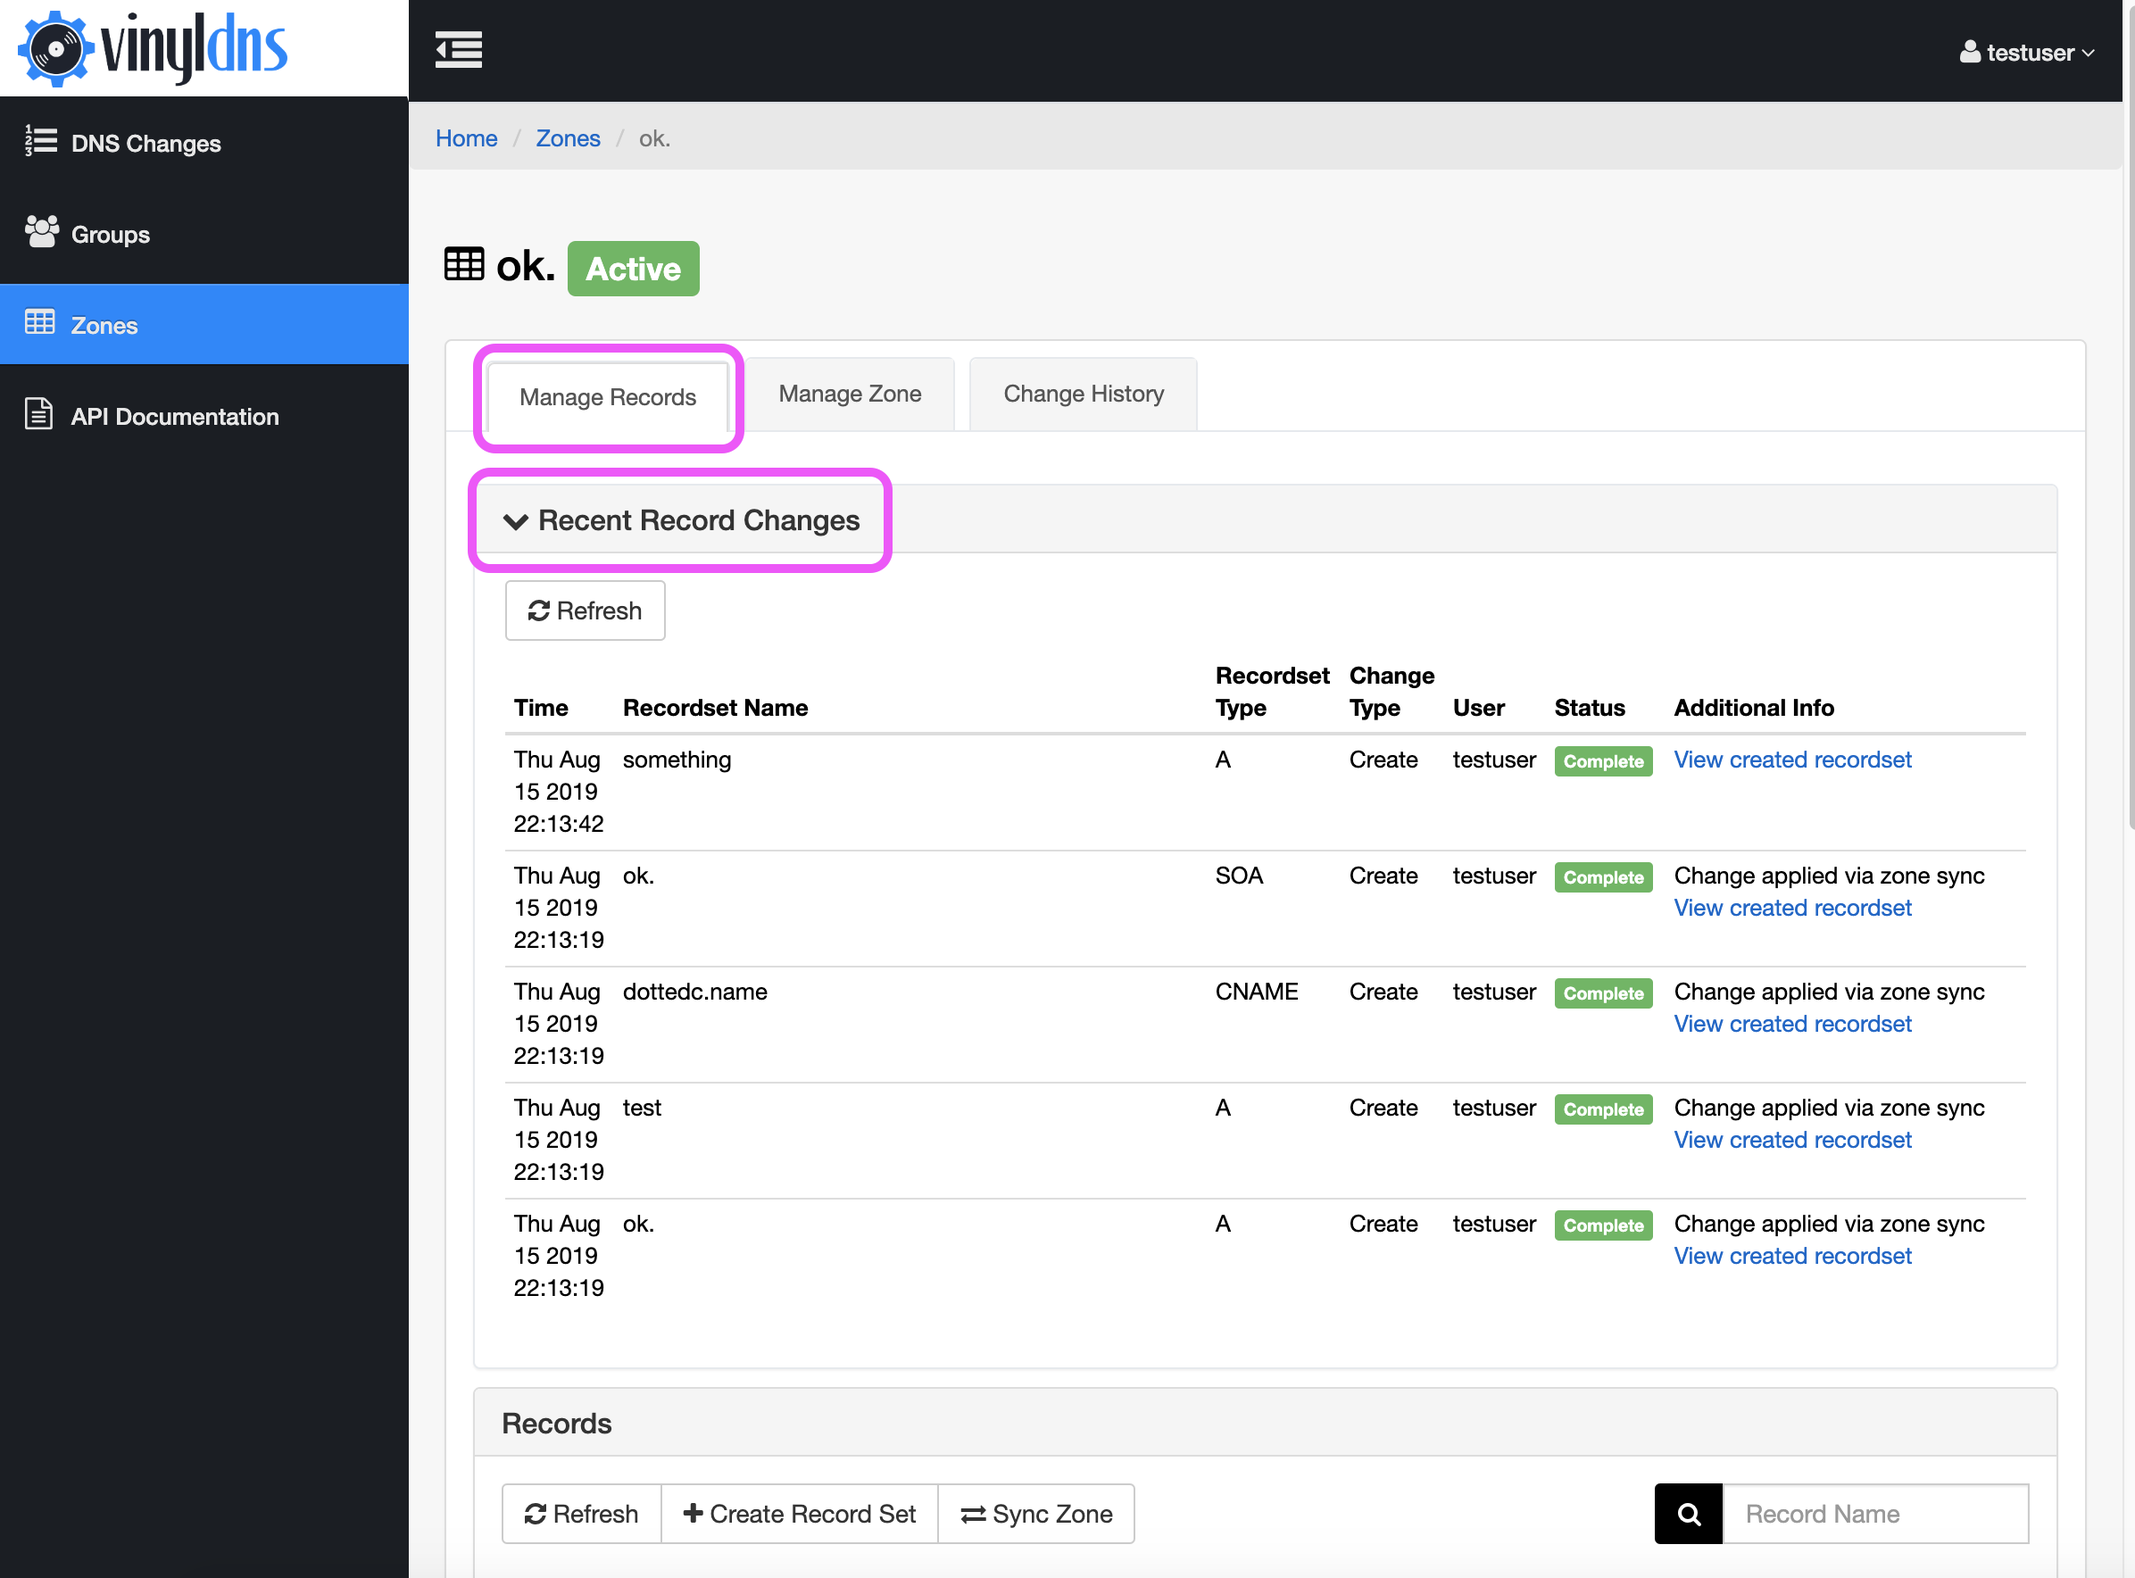
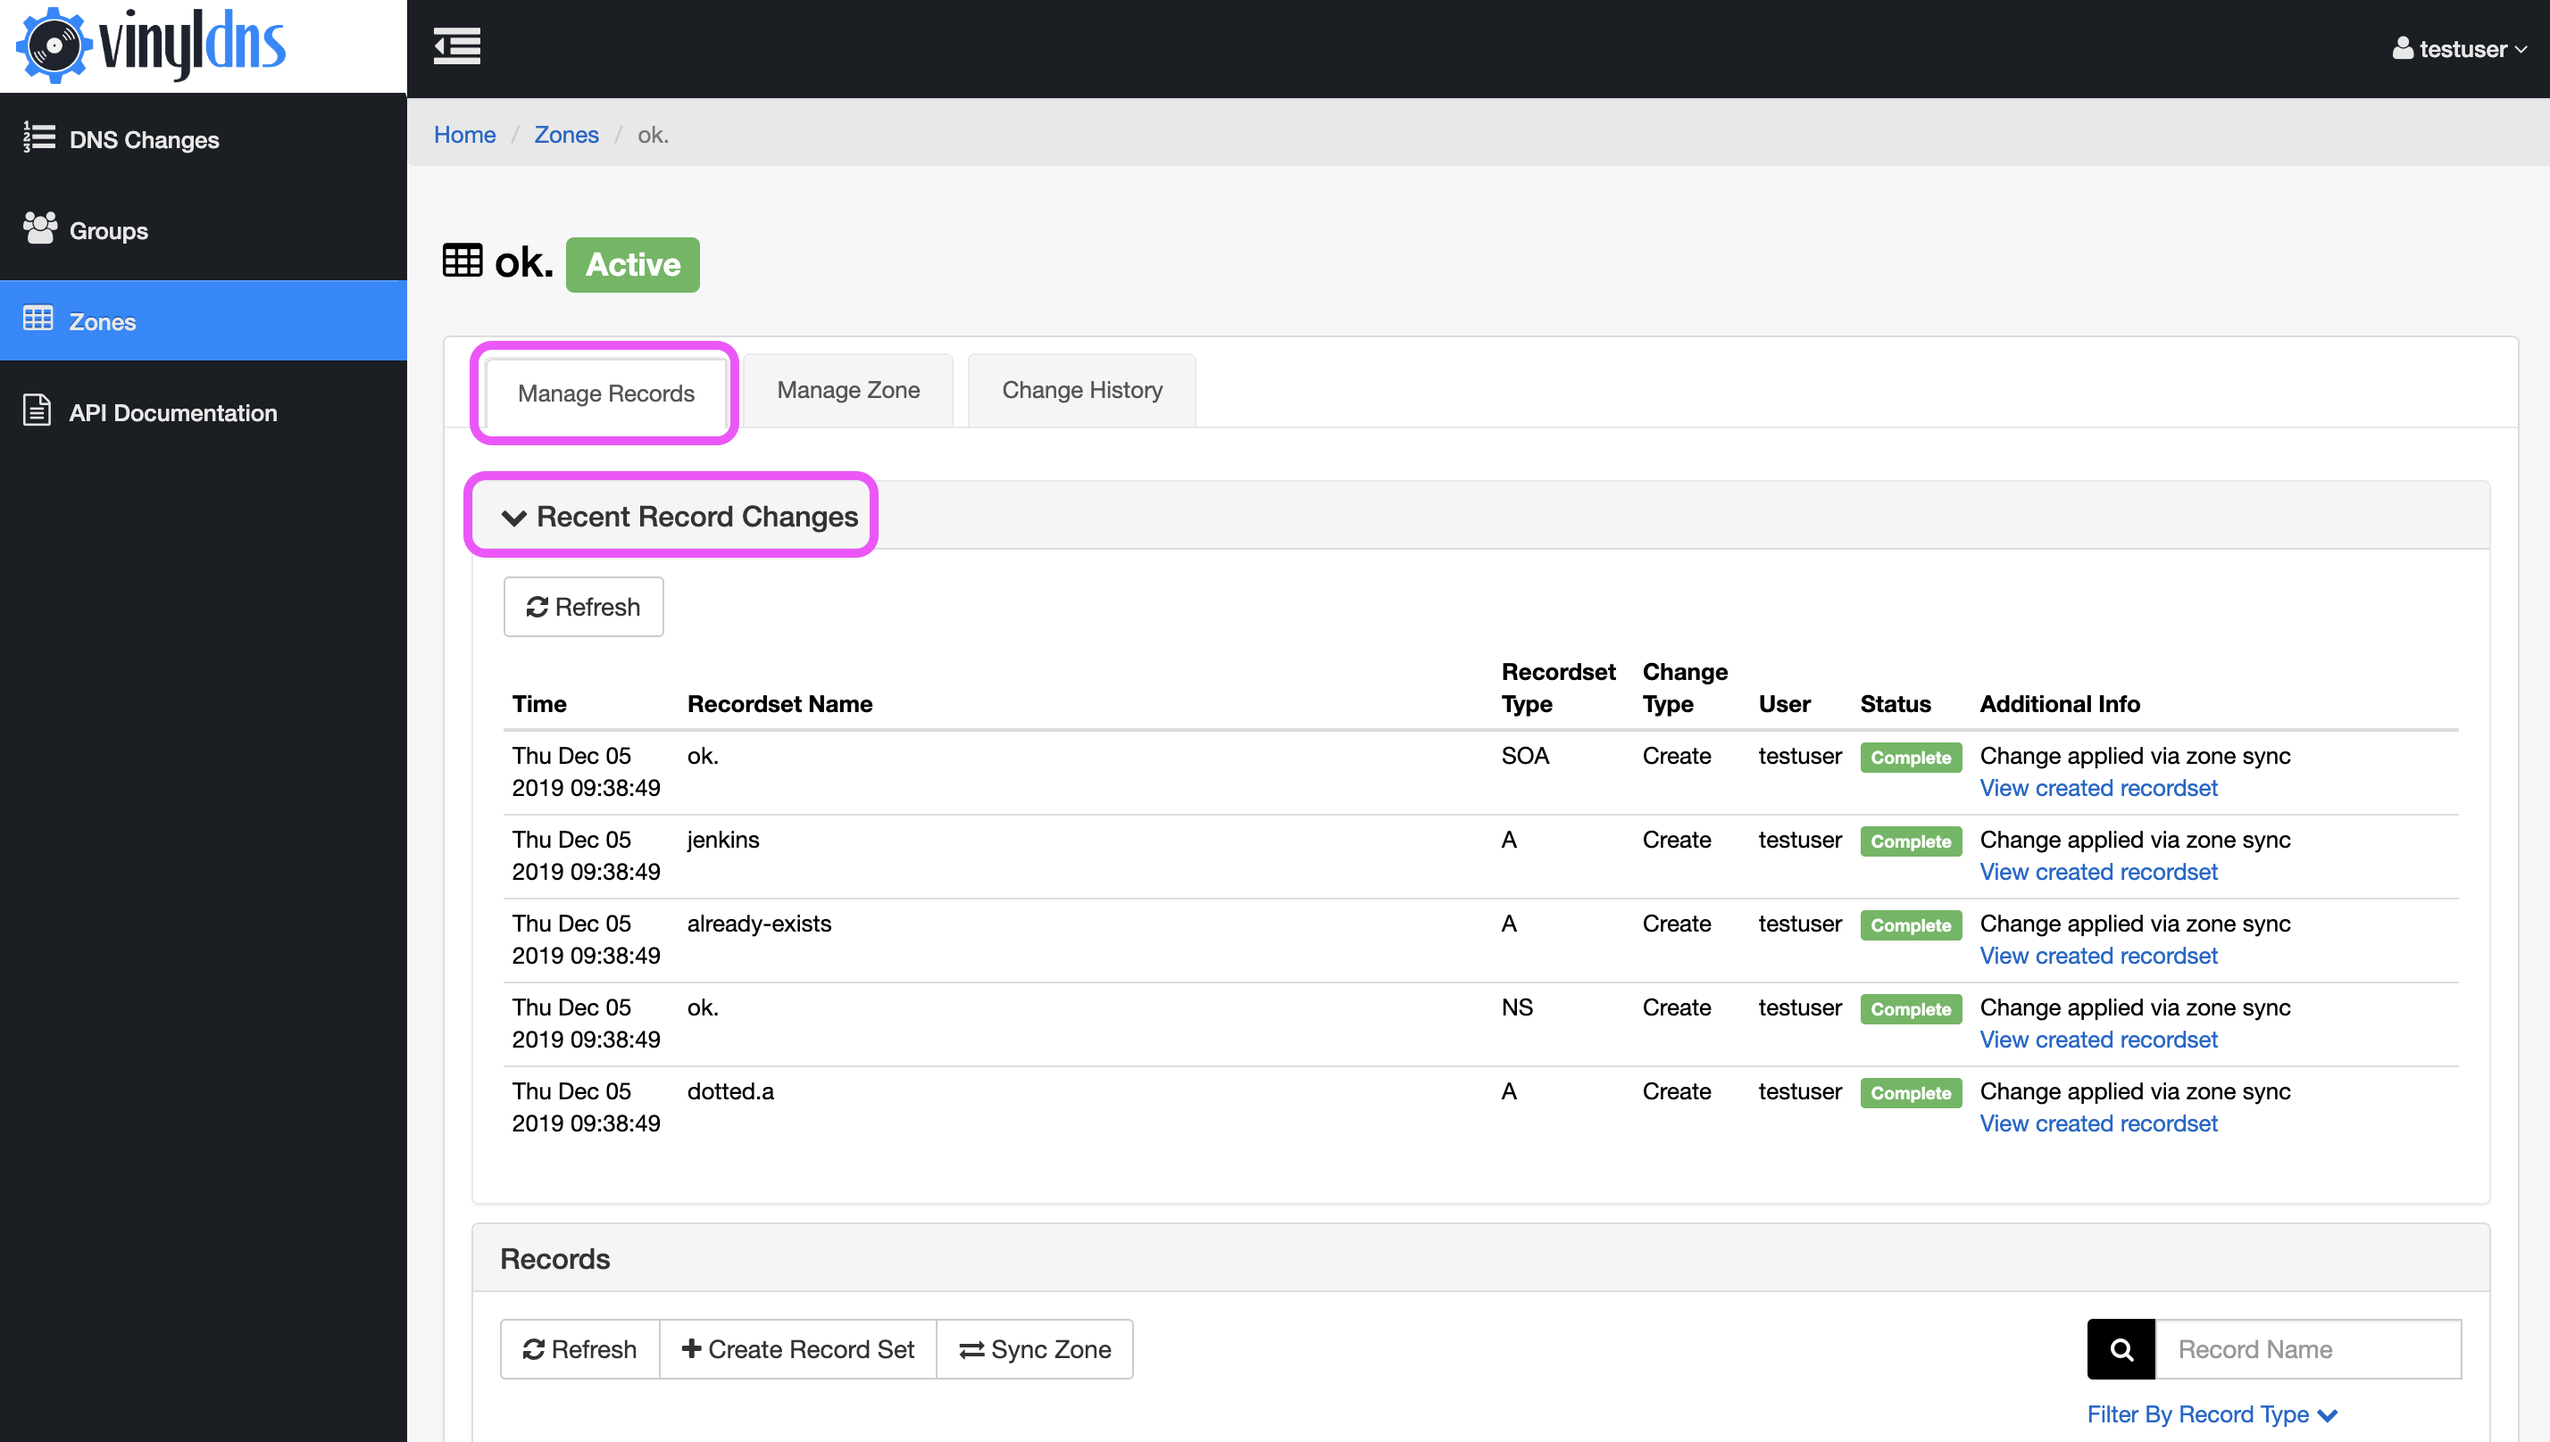
[ci skip] Add list record sets documentation.

Changed region(s): [[0.0, 0.0, 1.0, 1.0], [0.5569, 0.4022, 0.9281, 0.8045], [0.7734, 0.8973, 0.9281, 0.9901]]

diff --git a/modules/docs/src/main/tut/api/list-recordsets.md b/modules/docs/src/main/tut/api/list-recordsets.md
@@ -17,6 +17,8 @@ Retrieves a list of RecordSets from the zone
 name          | type          | required?   | description |
  ------------ | ------------- | ----------- | :---------- |
 recordNameFilter    | string        | no          | Characters that are part of the record name to search for.  The wildcard character `*` is supported, for example `www*`.  Omit the wildcard when searching for an exact record name. |
+recordTypeFilter    | Array of RecordType | no | An array of record types to filter for listing record sets.  Refer to [recordset mode](../api/recordset-model) for supported types.  Invalid record types will be ignored.  If left empty or no valid record types are provided, then all record types will be returned. |
+nameSort          | string        | no          | Name sort order for record sets returned by list record set response.  Valid values are `ASC` (ascending; default) and `DESC` (descending).
 startFrom     | *any*         | no          | In order to advance through pages of results, the startFrom is set to the `nextId` that is returned on the previous response.  It is up to the client to maintain previous pages if the client wishes to advance forward and backward.   If not specified, will return the first page of results |
 maxItems      | integer       | no          | The number of items to return in the page.  Valid values are 1 to 100. Defaults to 100 if not provided. |
 
@@ -38,6 +40,8 @@ startFrom     | *any*         | startFrom sent in request, will not be returned 
 nextId        | *any*         | nextId, used as startFrom parameter of next page request, will not be returned if record sets are exhausted |
 maxItems      | integer       | maxItems sent in request, default is 100 |
 recordNameFilter    | string  | name filter sent in request |
+recordTypeFilter    | Array of RecordType | record type filter sent in request |
+nameSort            | string  | name sort order sent in request
 
 #### EXAMPLE RESPONSE
 
@@ -151,6 +155,7 @@ recordNameFilter    | string  | name filter sent in request |
       "accessLevel": "Delete"
     }
   ],
-  "maxItems": 100
+  "maxItems": 100,
+  "nameSort": "ASC"
 }
 ```

diff --git a/modules/docs/src/main/tut/portal/manage-records.md b/modules/docs/src/main/tut/portal/manage-records.md
@@ -35,3 +35,10 @@ The *Additional Info* column will contain details of the change failure.
 If you make changes to the records in a zone outside of VinylDNS you must manually sync the zone so VinylDNS is aware of those records. Use the *Sync Zone* button in the *Records* pane.
 
 [![Sync zones screenshot](../img/portal/sync-zones-annotated.png){: .screenshot}](../img/portal/sync-zones-annotated.png)
+
+### Record sorting and filtering
+It is now possible to sort records in VinylDNS by record name ascending/descending order in addition to filtering the record types that will be displayed, providing more ease and control when navigating your DNS records.
+To use this functionality, make sure that you are on the *Manage Records* tab. To change the sort order for record name, click on the *Name* header in the *Records* table to toggle between ascending and descending order.
+To filter record types, click on the *Filter By Record Type* link to reveal the record type options and adjust your selection.
+  
+[![Sort records screenshot](../img/portal/manage-records-sort.png){: .screenshot}](../img/portal/manage-records-sort.png)
